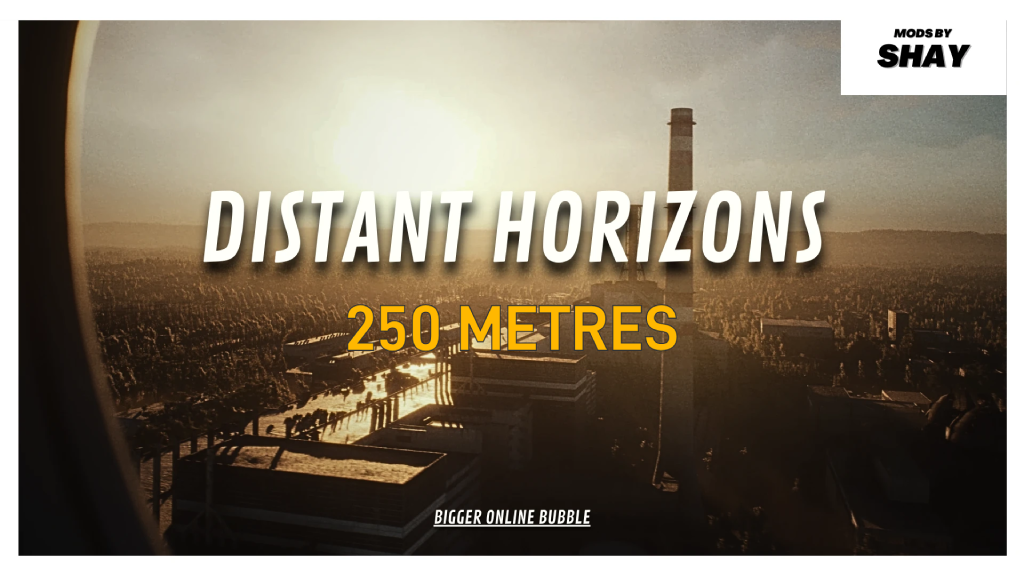
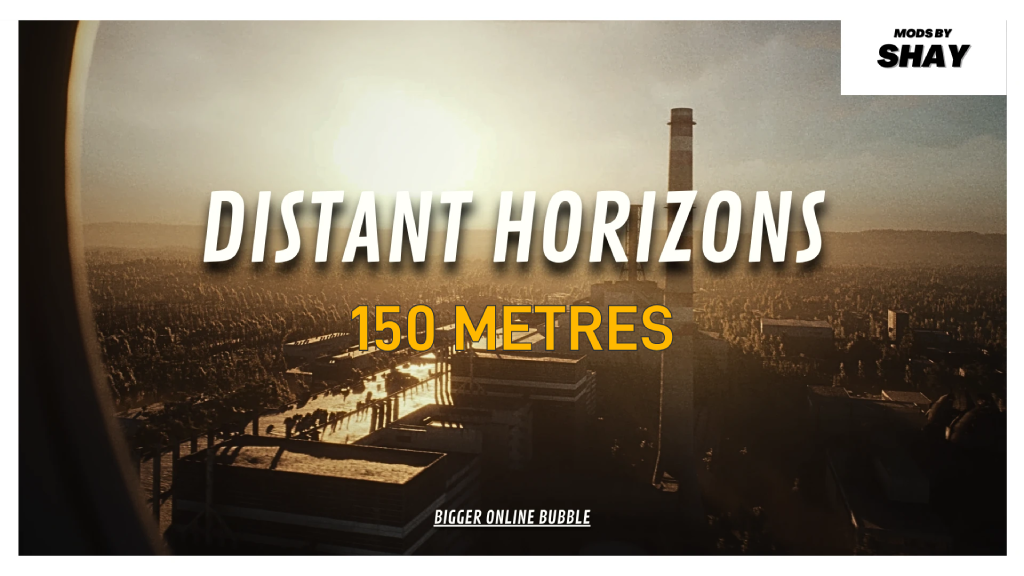
feat(ShaysDistantHorizons): Release 21 as cfg-only CoreVariables presets 250/300/350m; rename A-Life extension title
Folders 150/170/250 move to 250/300/350 keeping their Steam/mod.io items. One shared
transformCoreVariables bpatches DefaultConfig with the dynamic A-Life streaming range;
old pre-2.0 RenderLL/MWSS assets dropped.

Changed region(s): [[0.3438, 0.5312, 0.6875, 0.625]]

diff --git a/Mods/ShaysDistantHorizons250/readme.md b/Mods/ShaysDistantHorizons250/readme.md
@@ -2,7 +2,4 @@
 
 Here is a list of extended files (this mod bPatches files, so it is compatible with other mods that don't modify the same lines):
 
-`Modified or added assets`:
- - `Autogenerated_1765466682_WorldSubsystemData`
- - `Autogenerated_1765566535_WorldSubsystemData`
- - `MWSS_Render`
+`Modified or added assets`: [see the mod's raw/ folder on GitHub](https://github.com/sdwvit/S2Mods/tree/master/Mods/ShaysDistantHorizons250/raw)

diff --git a/Mods/ShaysDistantHorizons300/readme.md b/Mods/ShaysDistantHorizons300/readme.md
@@ -2,7 +2,4 @@
 
 Here is a list of extended files (this mod bPatches files, so it is compatible with other mods that don't modify the same lines):
 
-`Modified or added assets`:
- - `Autogenerated_1765466682_WorldSubsystemData`
- - `Autogenerated_1765566535_WorldSubsystemData`
- - `MWSS_Render`
+`Modified or added assets`: [see the mod's raw/ folder on GitHub](https://github.com/sdwvit/S2Mods/tree/master/Mods/ShaysDistantHorizons300/raw)

diff --git a/Mods/ShaysDistantHorizons350/readme.md b/Mods/ShaysDistantHorizons350/readme.md
@@ -2,7 +2,4 @@
 
 Here is a list of extended files (this mod bPatches files, so it is compatible with other mods that don't modify the same lines):
 
-`Modified or added assets`:
- - `Autogenerated_1765466682_WorldSubsystemData`
- - `Autogenerated_1765566535_WorldSubsystemData`
- - `MWSS_Render`
+`Modified or added assets`: [see the mod's raw/ folder on GitHub](https://github.com/sdwvit/S2Mods/tree/master/Mods/ShaysDistantHorizons350/raw)
